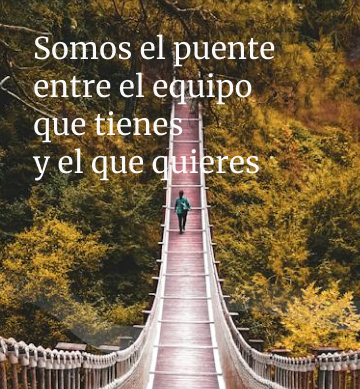
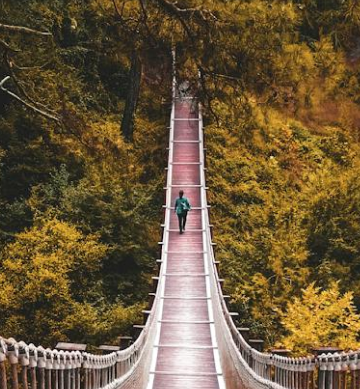
listo

diff --git a/src/components/pages/home/Home.jsx b/src/components/pages/home/Home.jsx
@@ -25,7 +25,11 @@ const Home = () => {
       <Hidden lgDown>
         <Parallax speed={-12}>
           <Box width={"100%"} height={"100vh"} overflow="hidden">
-            <img style={{objectFit:"cover", height:"700px", width:"100%"}} src="/home.png" alt="" />
+            <img
+              style={{ objectFit: "cover", height: "700px", width: "100%" }}
+              src="/home.png"
+              alt=""
+            />
           </Box>
         </Parallax>
         <Box>
@@ -51,7 +55,7 @@ const Home = () => {
                 width: "445px",
               }}
             >
-              Somos el puente entre el equipo que tienes y el que quieres
+              Somos el puente entre el equipo que tienes y el que quieres.
             </Typography>
           </Box>
           <Box
@@ -83,7 +87,6 @@ const Home = () => {
                 lineHeight: "40px",
                 fontWeight: "100",
                 color: "#07659C",
-                
               }}
             >
               Te acompañamos a potenciar tu compañía y a encontrar una fórmula
@@ -206,9 +209,13 @@ const Home = () => {
       </Hidden>
 
       <Hidden lgUp smDown>
-      <Parallax speed={-12}>
+        <Parallax speed={-12}>
           <Box width={"100%"} height={"100vh"} overflow="hidden">
-            <img style={{objectFit:"cover", height:"700px", width:"100%"}} src="/home.png" alt="" />
+            <img
+              style={{ objectFit: "cover", height: "700px", width: "100%" }}
+              src="/home.png"
+              alt=""
+            />
           </Box>
         </Parallax>
         <Box>
@@ -234,7 +241,7 @@ const Home = () => {
                 width: "445px",
               }}
             >
-              Somos el puente entre el equipo que tienes y el que quieres
+              Somos el puente entre el equipo que tienes y el que quieres.
             </Typography>
           </Box>
           <Box
@@ -398,8 +405,53 @@ const Home = () => {
       </Hidden>
 
       <Hidden smUp>
+      
+          <Box  width={"100%"} overflow="hidden">
+            <img
+              style={{ objectFit: "cover", width: "100%", height:"500px" }}
+              src="/homeMobile.png"
+              alt=""
+            />
+          </Box>
+        
         <Box>
-          <img width={"100%"} src="/homeMobile.png" alt="" />
+          <Box sx={{ position: "absolute", top: "150px" }}>
+            <img width={"100%"} src="/nosotros4.png" alt="" />
+          </Box>
+          <Box
+            sx={{
+              position: "absolute",
+              top: "82px ",
+              left: "7%",
+              width: "48%",
+            }}
+          >
+            <Typography
+              sx={{
+                fontFamily: "Merriweather",
+                fontSize: "30px",
+                lineHeight: "44px",
+                fontWeight: "300",
+                color: "white",
+
+                width: "245px",
+              }}
+            >
+              Somos el puente entre el equipo que tienes y el que quieres.
+            </Typography>
+          </Box>
+          <Box
+            sx={{
+              position: "absolute",
+              top: "455px",
+              left: "7%",
+            }}
+          >
+            {/* <GreenButtom texto={"Conoce más"} linkTo={"/#seccionDestino"} /> */}
+            <ScrollLink to="seccionDestino" smooth={true}>
+              <GreenButtom texto={"Conoce más"} />
+            </ScrollLink>
+          </Box>
         </Box>
 
         <Box m={"auto"} width={"80%"} mt={"7%"}>
